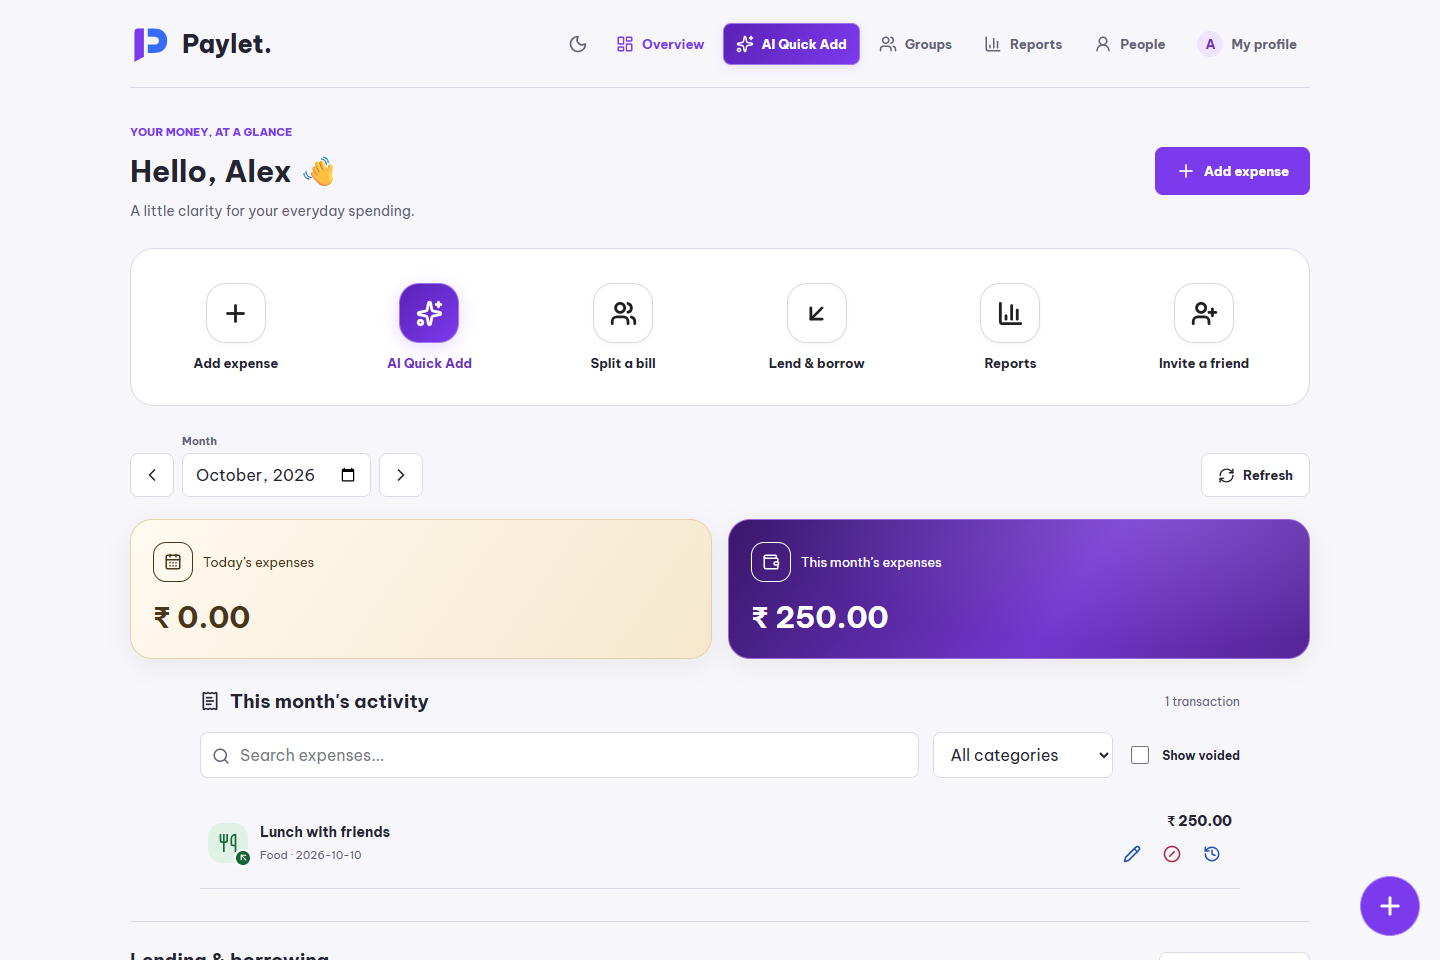
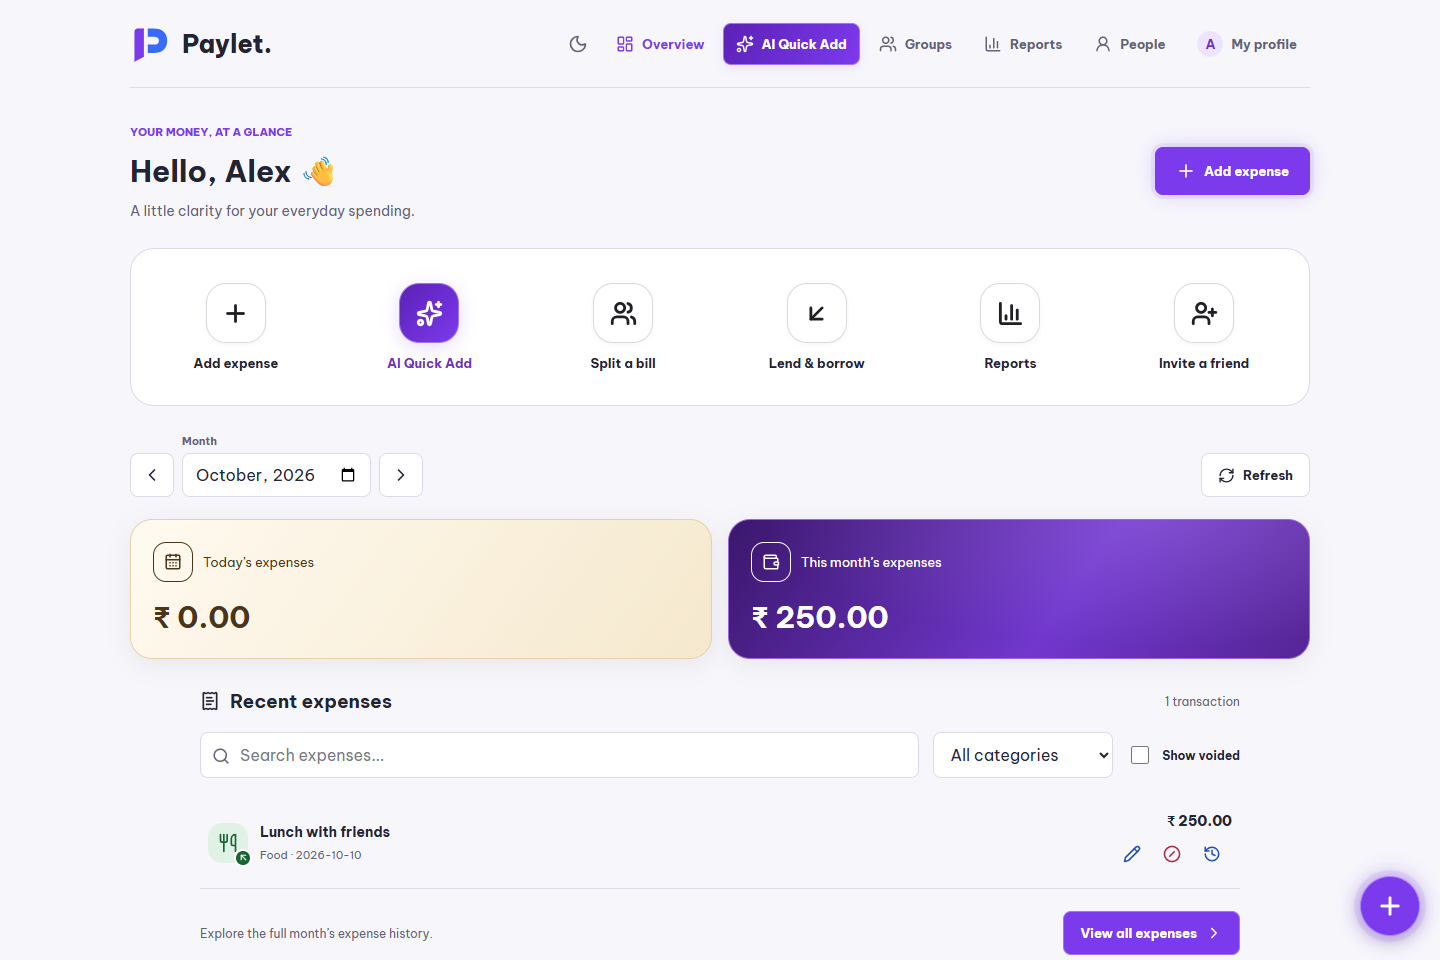
Add monthly expense logs page and recent-six dashboard view

diff --git a/frontend/src/components/Dashboard.tsx b/frontend/src/components/Dashboard.tsx
@@ -1,7 +1,7 @@
 import BrandMark from "./BrandMark";
 import { useSuccessToast } from "../lib/successToast";
 import { dailyExpenseTotals, expenseDateInMonth, zeroExpenseTotal } from "../lib/dailyExpenseTotals";
-import { useEffect, useState } from "react";
+import { Fragment, useEffect, useState } from "react";
 import { currencyLabel } from "../lib/currencyLabel";
 import type { FormEvent } from "react";
 import { api } from "../lib/api";
@@ -108,6 +108,7 @@ export default function Dashboard({
     const currentMonth = today.slice(0, 7);
     const [showAi, setShowAi] = useScreen("ai");
     const [showProfile, setShowProfile] = useScreen("profile");
+    const [showLogs, setShowLogs] = useScreen("logs");
     const [showPeople, setShowPeople] = useScreen("people");
     const [showReports, setShowReports] = useScreen("reports");
     const [showGroups, setShowGroups] = useScreen("groups");
@@ -119,8 +120,18 @@ export default function Dashboard({
     const groupInvites = useGroupInvitations();
 
     const [month, setMonth] = useState(
-        () => todayIn(user.timezone).slice(0, 7)
+        () => {
+            const params = new URLSearchParams(location.search);
+            const requested = params.get("logMonth") ?? "";
+            return params.get("screen") === "logs" && /^(19|20|21)\d{2}-(0[1-9]|1[0-2])$/.test(requested) ? requested : todayIn(user.timezone).slice(0, 7);
+        }
     );
+    useEffect(() => {
+        if (!showLogs) return;
+        const url = new URL(location.href);
+        url.searchParams.set("logMonth", month);
+        window.history.replaceState(window.history.state, "", url);
+    }, [showLogs, month]);
     const expenseDate = expenseDateInMonth(today, month);
     const dayLabel = expenseDate === today ? "Today’s expenses" : `${new Intl.DateTimeFormat("en-IN", { day: "numeric", month: "short", timeZone: "UTC" }).format(new Date(`${expenseDate}T00:00:00Z`))} expenses`;
 
@@ -209,7 +220,9 @@ export default function Dashboard({
     const visibleExpenses = (loaded?.summary.expenses ?? []).filter((expense) =>
         (showVoided || !expense.voidedAt) && (!category || expense.category === category) &&
         `${expense.purpose} ${expense.category} ${expense.amount} ${expense.currency} ${currencyLabel(expense.currency)}`.toLowerCase().includes(query.trim().toLowerCase())
-    );
+    ).sort((a, b) => b.date.localeCompare(a.date));
+    const displayedExpenses = showLogs ? visibleExpenses : visibleExpenses.slice(0, 6);
+    const monthLabel = new Intl.DateTimeFormat("en-IN", { month: "long", year: "numeric", timeZone: "UTC" }).format(new Date(`${month}-01T00:00:00Z`));
 
     function changeMonth(value: string) {
         setMonth(value);
@@ -380,7 +393,7 @@ export default function Dashboard({
     }
 
     return (
-        <main className="signed-in-page home-page">
+        <main className={`signed-in-page home-page${showLogs ? " monthly-logs-page" : ""}`}>
             <header className="app-header">
                 <a className="brand" href="/">
                     <BrandMark />
@@ -389,6 +402,7 @@ export default function Dashboard({
 
                 <div className="header-actions">
                     <ThemeToggle />
+                    {showLogs ? <button type="button" className="button button-outline" disabled={disabled || Boolean(draft)} onClick={() => setShowLogs(false)}><ChevronLeft size={18} /> Back to dashboard</button> : <>
                     <span className="nav-current"><LayoutDashboard size={18} /> Overview</span>
                     <button type="button" className="button button-purple dashboard-ai-nav" disabled={disabled || Boolean(draft)} onClick={() => setShowAi(true)}><Sparkles size={18} /> AI Quick Add</button>
                     <button
@@ -429,10 +443,11 @@ export default function Dashboard({
                     >
                         <span className="nav-avatar">{user.displayName.slice(0, 1).toUpperCase()}</span> My profile
                     </button>
+                    </>}
                 </div>
             </header>
 
-            <div aria-live="polite">
+            {!showLogs && <><div aria-live="polite">
                 {groupInvites.invitations.length > 0 && (
                     <div className="pg-notification">
                         <span>You have {groupInvites.invitations.length} pending group invitation(s).</span>
@@ -445,19 +460,19 @@ export default function Dashboard({
                 {groupInvites.error && <p className="pg-muted">Group notifications unavailable. Open Groups to retry.</p>}
             </div>
 
-            <SettlementNotifications disabled={disabled || Boolean(draft)} onOpen={(groupId) => openScreen("groups", { group: groupId })}/>
+            <SettlementNotifications disabled={disabled || Boolean(draft)} onOpen={(groupId) => openScreen("groups", { group: groupId })}/></>}
 
             <section className="dashboard-page">
                 <div className="dashboard-heading">
                     <div>
                         <span className="eyebrow">
-                            YOUR MONEY, AT A GLANCE
+                            {showLogs ? "YOUR MONTHLY RECORD" : "YOUR MONEY, AT A GLANCE"}
                         </span>
 
-                        <h1>Hello, {user.displayName} <span role="img" aria-label="waving hand">👋</span></h1>
+                        {showLogs ? <h1>Monthly expense logs</h1> : <h1>Hello, {user.displayName} <span role="img" aria-label="waving hand">👋</span></h1>}
 
                         <p className="form-description">
-                            A little clarity for your everyday spending.
+                            {showLogs ? `${monthLabel} · All your expenses, organized by date.` : "A little clarity for your everyday spending."}
                         </p>
                     </div>
 
@@ -474,14 +489,14 @@ export default function Dashboard({
                     </button>
                 </div>
 
-                <nav className="quick-actions" aria-label="Quick actions">
+                {!showLogs && <nav className="quick-actions" aria-label="Quick actions">
                     <button onClick={beginAdd} disabled={disabled || !ready}><span className="action-symbol orange"><Plus /></span><span>Add expense</span></button>
                     <button className="dashboard-ai-shortcut" onClick={() => setShowAi(true)} disabled={disabled}><span className="action-symbol purple"><Sparkles /></span><span>AI Quick Add</span></button>
                     <button onClick={() => setShowGroups(true)} disabled={disabled}><span className="action-symbol blue"><Users /></span><span>Split a bill</span></button>
                     <button onClick={() => setShowPeople(true)} disabled={disabled}><span className="action-symbol green"><ArrowDownLeft /></span><span>Lend & borrow</span></button>
                     <button onClick={() => setShowReports(true)} disabled={disabled}><span className="action-symbol blue"><BarChart3 /></span><span>Reports</span></button>
                     <button onClick={() => setShowInvite(true)} disabled={disabled}><span className="action-symbol purple"><UserPlus /></span><span>Invite a friend</span></button>
-                </nav>
+                </nav>}
 
                 <div className="month-toolbar">
                     <button type="button" className="button button-outline icon-button" title="Previous month" aria-label="Previous month" disabled={disabled || month === "1900-01"} onClick={() => shiftMonth(-1)}><ChevronLeft size={20} /></button>
@@ -532,7 +547,7 @@ export default function Dashboard({
                     <p role="status">Loading expenses…</p>
                 )}
 
-                {ready && loaded && (
+                {!showLogs && ready && loaded && (
                     <div className="summary-grid">
                         <article className="summary-card today-expense-card" aria-label={`Expenses on ${expenseDate}`}>
                             <p><CalendarDays size={18} aria-hidden="true" /><span>{dayLabel}</span></p>
@@ -738,7 +753,7 @@ export default function Dashboard({
 
                 {ready && loaded && (
                     <section className="expense-list">
-                        <div className="activity-heading"><h2><ReceiptText size={20} /> This month's activity</h2><span className="activity-count">{visibleExpenses.length} {visibleExpenses.length === 1 ? "transaction" : "transactions"}</span></div>
+                        <div className="activity-heading"><h2><ReceiptText size={20} /> {showLogs ? "All expenses" : "Recent expenses"}</h2><span className="activity-count">{!showLogs && visibleExpenses.length > 6 ? `6 of ${visibleExpenses.length}` : visibleExpenses.length} {visibleExpenses.length === 1 ? "transaction" : "transactions"}</span></div>
                         <div className="activity-filters">
                             <div className="search-field"><Search size={18} /><input aria-label="Search expenses" placeholder="Search expenses..." value={query} onChange={(event) => setQuery(event.target.value)} /></div>
                             <select aria-label="Filter by category" value={category} onChange={(event) => setCategory(event.target.value)}><option value="">All categories</option>{Array.from(new Set(loaded.summary.expenses.map((expense) => expense.category))).sort().map((item) => <option key={item}>{item}</option>)}</select>
@@ -758,7 +773,9 @@ export default function Dashboard({
 
                         {loaded.summary.expenses.length > 0 && visibleExpenses.length === 0 && <div className="empty-activity"><Search size={28} /><h3>No matching expenses</h3><button className="button button-outline" onClick={() => { setQuery(""); setCategory(""); setShowVoided(true); }}>Clear filters</button></div>}
 
-                        {visibleExpenses.map((expense) => (
+                        {displayedExpenses.map((expense, index) => (
+                            <Fragment key={expense.id}>
+                            {showLogs && (index === 0 || displayedExpenses[index - 1].date !== expense.date) && <h3 className="expense-date-heading"><CalendarDays size={17} aria-hidden="true" /><time dateTime={expense.date}>{new Intl.DateTimeFormat("en-IN", { weekday: "short", day: "numeric", month: "long", year: "numeric", timeZone: "UTC" }).format(new Date(`${expense.date}T00:00:00Z`))}</time></h3>}
                             <article
                                 className={`expense-row expense-tone-${expense.category === "Food" || expense.category === "Groceries" ? "food" : expense.category === "Travel" ? "travel" : "other"} ${expense.voidedAt ? "is-void" : ""
                                     }`}
@@ -833,7 +850,9 @@ export default function Dashboard({
                                     </div>
                                 </div>
                             </article>
+                            </Fragment>
                         ))}
+                        {!showLogs && loaded.summary.expenses.length > 0 && <div className="expense-log-footer"><p className="profile-member">{visibleExpenses.length > 6 ? "Showing your 6 most recent matching expenses." : "Explore the full month’s expense history."}</p><button type="button" className="button button-purple" disabled={disabled || Boolean(draft)} onClick={() => openScreen("logs", { logMonth: month })}>View all expenses <ChevronRight size={18} aria-hidden="true" /></button></div>}
                     </section>
                 )}
 
@@ -876,7 +895,7 @@ export default function Dashboard({
                     </div>
                     </Modal>
                 )}
-                <LoanSummary refreshKey={refresh} onOpenPeople={() => setShowPeople(true)} />
+                {!showLogs && <LoanSummary refreshKey={refresh} onOpenPeople={() => setShowPeople(true)} />}
                 {showInvite && <InvitePaylet onClose={() => setShowInvite(false)} />}
                 {voidTarget && <Modal title="Void this expense?" busy={busy} onClose={() => { setVoidTarget(null); setError(""); }}>
                     <p><strong>{voidTarget.purpose}</strong> · {currencyLabel(voidTarget.currency)} {voidTarget.amount}</p>
@@ -885,7 +904,7 @@ export default function Dashboard({
                     <div className="profile-actions"><button className="button button-danger" disabled={busy} onClick={() => void voidExpense(voidTarget)}><CircleSlash size={18} /> {busy ? "Voiding..." : "Void expense"}</button><button className="button button-outline" disabled={busy} onClick={() => { setVoidTarget(null); setError(""); }}>Keep expense</button></div>
                 </Modal>}
             </section>
-            <button type="button" className="dashboard-fab" title="Add expense" aria-label="Add expense" disabled={disabled || !ready} onClick={beginAdd}><Plus size={28} strokeWidth={2.5} aria-hidden="true" /><span aria-hidden="true">Add expense</span></button>
+            {!showLogs && <button type="button" className="dashboard-fab" title="Add expense" aria-label="Add expense" disabled={disabled || !ready} onClick={beginAdd}><Plus size={28} strokeWidth={2.5} aria-hidden="true" /><span aria-hidden="true">Add expense</span></button>}
         </main>
     );
 }

diff --git a/frontend/tests/ui.spec.ts b/frontend/tests/ui.spec.ts
@@ -42,6 +42,78 @@ async function mockApi(page: Page, signedIn = true) {
   return writes;
 }
 
+test("dashboard shows six recent expenses and monthly logs group all records with existing actions", async ({ page }) => {
+  await mockApi(page);
+  await page.clock.install({time:new Date('2026-10-28T06:00:00Z')});
+  const expenses=Array.from({length:12},(_,index)=>({...initialExpense,id:`log-${index}`,purpose:`Expense ${index+1}`,date:`2026-09-${String(1+Math.floor(index/2)).padStart(2,'0')}`,category:index%2?'Travel':'Food',voidedAt:index===0?'2026-09-10T00:00:00Z':null,...(index===11?{source:'SHARED',groupId:'group-1'}:{})}));
+  await page.route('**/api/expenses?**',route=>route.fulfill({json:{expenses,totals:[{currency:'INR',amount:'2750.00'}],count:11}}));
+  let edited:Record<string,unknown>|null=null;
+  await page.route('**/api/expenses/log-2',async route=>{edited=route.request().postDataJSON(); await route.fulfill({json:{}});});
+  await page.goto('/?view=dashboard');
+  await page.getByLabel('Month',{exact:true}).fill('2026-09');
+  await expect(page.locator('.expense-list .expense-row')).toHaveCount(6);
+  await expect(page.locator('.activity-count')).toHaveText('6 of 11 transactions');
+  await expect(page.getByRole('heading',{name:'Expense 3',exact:true})).toHaveCount(0);
+  await page.getByRole('button',{name:'View all expenses',exact:true}).click();
+  await expect(page).toHaveURL(/screen=logs.*logMonth=2026-09/);
+  await expect(page.getByRole('heading',{name:'Monthly expense logs',exact:true})).toBeVisible();
+  await expect(page.locator('.expense-row')).toHaveCount(11);
+  await expect(page.locator('.expense-date-heading')).toHaveCount(6);
+  await expect(page.locator('.expense-date-heading time').first()).toHaveAttribute('datetime','2026-09-06');
+  await expect(page.locator('.expense-date-heading time').last()).toHaveAttribute('datetime','2026-09-01');
+  await expect(page.getByLabel('Month',{exact:true})).toHaveAttribute('type','month');
+  await expect(page.locator('.summary-grid')).toHaveCount(0);
+  await expect(page.locator('.quick-actions')).toHaveCount(0);
+  const shared=page.locator('.expense-row').filter({hasText:'Expense 12'});
+  await expect(shared.getByRole('button',{name:'Edit',exact:true})).toHaveCount(0);
+  await expect(shared.getByRole('button',{name:'View in Groups',exact:true})).toBeVisible();
+  await page.getByLabel('Show voided',{exact:true}).check();
+  await expect(page.locator('.expense-row')).toHaveCount(12);
+  await page.getByLabel('Show voided',{exact:true}).uncheck();
+  await page.getByLabel('Search expenses',{exact:true}).fill('Expense 3');
+  await expect(page.locator('.expense-row')).toHaveCount(1);
+  await page.getByLabel('Search expenses',{exact:true}).fill('');
+  await page.getByLabel('Filter by category',{exact:true}).selectOption('Travel');
+  await expect(page.locator('.expense-row')).toHaveCount(6);
+  await page.getByLabel('Filter by category',{exact:true}).selectOption('');
+  const older=page.locator('.expense-row').filter({hasText:'Expense 3'});
+  await older.getByRole('button',{name:'Edit',exact:true}).click();
+  await page.getByLabel('Amount',{exact:true}).fill('300.00');
+  await page.getByRole('button',{name:'Save expense',exact:true}).click();
+  await expect(page.getByRole('dialog')).toHaveCount(0);
+  expect(edited).toMatchObject({version:1,amount:'300.00',date:'2026-09-02'});
+  await older.getByRole('button',{name:'History',exact:true}).click();
+  await expect(page.getByRole('dialog',{name:'Expense history'})).toContainText('CREATED');
+  await page.keyboard.press('Escape');
+  await expect(page.getByRole('dialog')).toHaveCount(0);
+  await expect.poll(()=>page.evaluate(()=>history.state?.payletModal??null)).toBeNull();
+  for(const theme of ['light','dark']) {
+    if(await page.locator('html').getAttribute('data-theme')!==theme) await page.getByRole('button',{name:`Switch to ${theme} mode`}).click();
+    for(const width of [320,768,1440]) {
+      await page.setViewportSize({width,height:960});
+      expect(await page.evaluate(()=>document.documentElement.scrollWidth<=innerWidth)).toBe(true);
+    }
+    await page.screenshot({path:`test-results/monthly-logs-${theme}.png`,fullPage:true});
+  }
+  await page.getByRole('button',{name:'Back to dashboard',exact:true}).click();
+  await expect(page.getByRole('heading',{name:/Hello, Aftab/})).toBeVisible();
+  await expect(page.locator('.expense-row')).toHaveCount(6);
+});
+
+test("monthly logs retain the selected month on reload and support phone Back", async ({ page }) => {
+  await mockApi(page);
+  await page.goto('/?view=dashboard');
+  await page.getByLabel('Month',{exact:true}).fill('2026-09');
+  await page.getByRole('button',{name:'View all expenses',exact:true}).click();
+  await expect(page.getByRole('heading',{name:'Monthly expense logs',exact:true})).toBeVisible();
+  await page.reload();
+  await expect(page.getByLabel('Month',{exact:true})).toHaveValue('2026-09');
+  await expect(page.getByRole('heading',{name:'Monthly expense logs',exact:true})).toBeVisible();
+  await page.goBack();
+  await expect(page.getByRole('heading',{name:/Hello, Aftab/})).toBeVisible();
+  await expect(page.locator('.expense-date-heading')).toHaveCount(0);
+});
+
 test("expense modal saves the existing API contract and edit keeps the version", async ({ page }) => {
   const writes = await mockApi(page);
   await page.goto("/?view=dashboard");

diff --git a/frontend/src/components/dashboard-refresh.css b/frontend/src/components/dashboard-refresh.css
@@ -70,3 +70,11 @@ body:has(dialog[open]) .dashboard-fab { display: none; }
 .home-page .loan-summary-card { border-radius: 22px; box-shadow: none; }
 @media (max-width: 600px) { .home-page .quick-actions { padding: 14px 6px; gap: 10px 4px; } .home-page .quick-actions .action-symbol { width: 54px; height: 54px; border-radius: 18px; } .home-page .summary-grid .summary-card { padding: 16px; } }
 @media (hover: hover) { .home-page .quick-actions > button:hover:not(:disabled) .action-symbol { box-shadow: 0 0 0 4px #7c3aed18; } }
+.expense-log-footer { display: flex; justify-content: space-between; align-items: center; flex-wrap: wrap; gap: 16px; padding-top: 22px; }
+.expense-log-footer p { margin: 0; font-size: 12px; }
+.home-page.monthly-logs-page { padding-bottom: 40px; }
+.monthly-logs-page .expense-list { width: 100%; padding: 24px; border: 1px solid var(--border); border-radius: 24px; background: var(--surface); }
+.monthly-logs-page .activity-heading { margin-bottom: 20px; }
+.expense-date-heading { display: flex; align-items: center; gap: 9px; margin: 28px 0 4px; padding: 10px 12px; border-radius: 10px; background: var(--surface-alt); color: var(--text); font-size: 13px; font-weight: 600; }
+.expense-date-heading svg { color: var(--purple); flex-shrink: 0; }
+@media (max-width: 600px) { .monthly-logs-page .expense-list { padding: 16px 12px; } .expense-log-footer .button { width: 100%; justify-content: center; } .expense-date-heading { font-size: 12px; line-height: 1.6; } .monthly-logs-page .header-actions { flex-wrap: wrap; } }

diff --git a/frontend/src/lib/navigation.ts b/frontend/src/lib/navigation.ts
@@ -36,7 +36,7 @@ function changeUrl(url: URL) {
 export function openScreen(screen: string, details: Record<string, string> = {}) {
   const url = new URL(window.location.href);
   url.searchParams.set("view", "dashboard");
-  for (const key of ["screen", "person", "group"]) url.searchParams.delete(key);
+  for (const key of ["screen", "person", "group", "logMonth"]) url.searchParams.delete(key);
   if (screen !== "dashboard") url.searchParams.set("screen", screen);
   for (const [key, value] of Object.entries(details)) url.searchParams.set(key, value);
   changeUrl(url);
